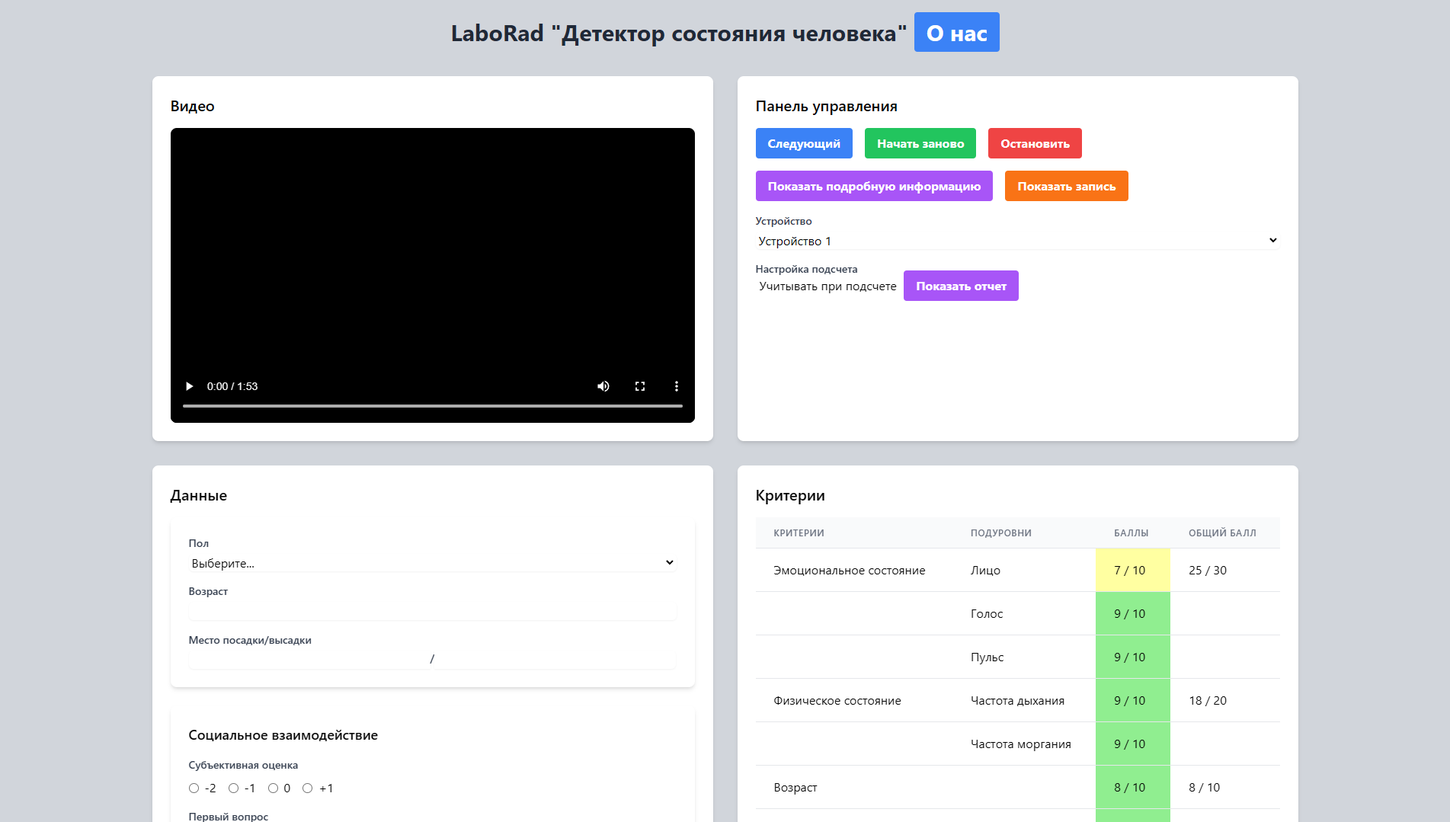
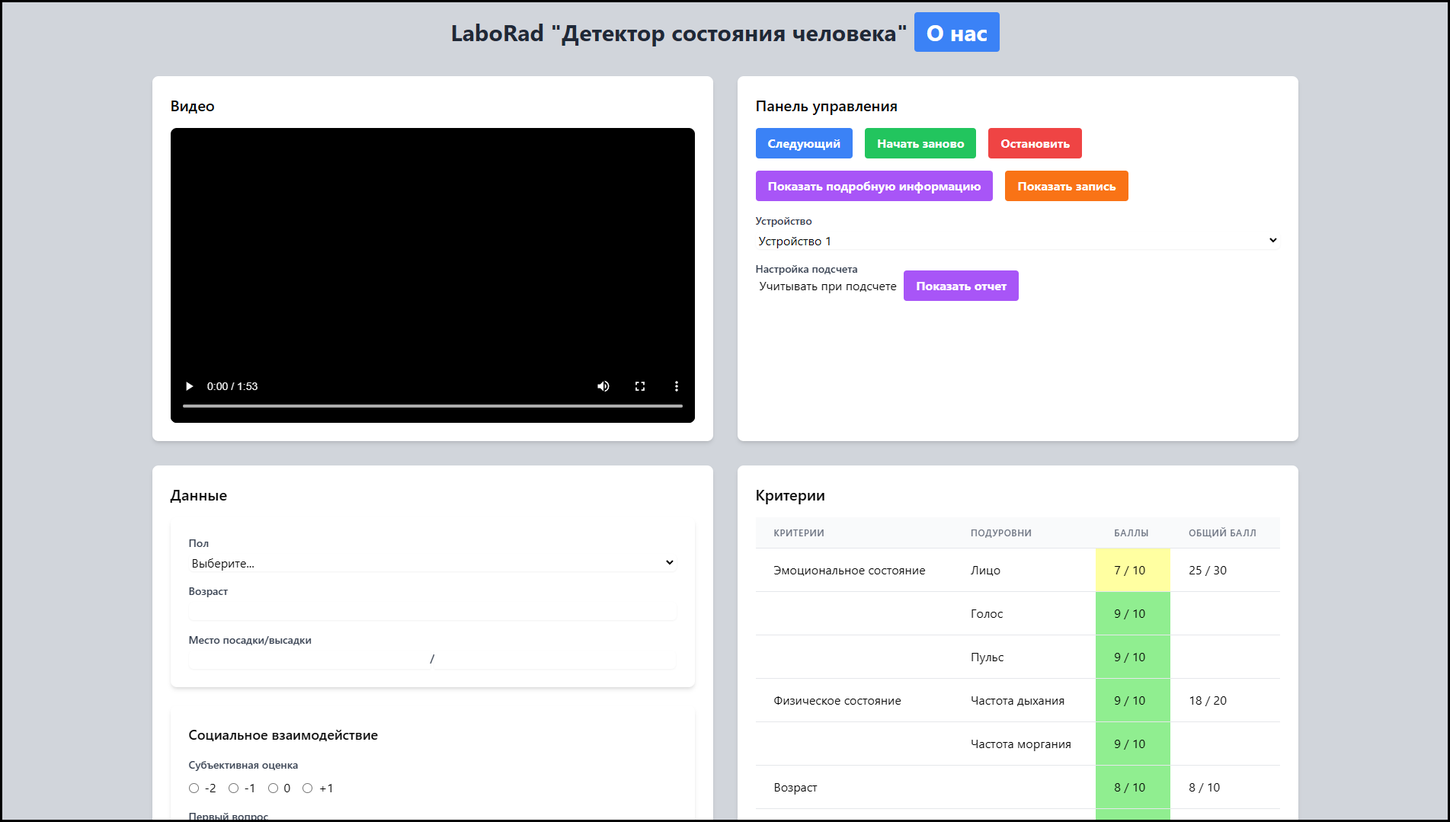
Update docs and landing page
What's new?
 - Add border to screenshots in landing page
 - Add border to screenshots in docs

Changed region(s): [[0.0, 0.0, 1.0, 1.0], [0.0, 0.0, 0.031, 0.0306]]

diff --git a/docs/searchindex.js b/docs/searchindex.js
@@ -1,1 +1,1 @@
-Search.setIndex({"alltitles": {"\u0412\u0438\u0434\u0435\u043e": [[0, "id5"]], "\u0413\u0440\u0430\u0444\u0438\u043a\u0438": [[0, "id9"]], "\u0414\u0430\u043d\u043d\u044b\u0435": [[0, "id7"]], "\u0414\u043e\u043a\u0443\u043c\u0435\u043d\u0442\u0430\u0446\u0438\u044f LaboRad HSD": [[0, null]], "\u0414\u043e\u0441\u0442\u0443\u043f": [[0, "id2"]], "\u0417\u0430\u043f\u0443\u0441\u043a": [[0, "id12"]], "\u0418\u043d\u0442\u0435\u0440\u0444\u0435\u0439\u0441": [[0, "id4"]], "\u041a\u0440\u0438\u0442\u0435\u0440\u0438\u0438": [[0, "id8"]], "\u041d\u0430\u0447\u0430\u043b\u043e \u0440\u0430\u0431\u043e\u0442\u044b": [[0, "id3"]], "\u041f\u0430\u043d\u0435\u043b\u044c \u0443\u043f\u0440\u0430\u0432\u043b\u0435\u043d\u0438\u044f": [[0, "id6"]], "\u041f\u0443\u0431\u043b\u0438\u043a\u0430\u0446\u0438\u044f": [[0, "id15"]], "\u0420\u0430\u0437\u0432\u0435\u0440\u0442\u044b\u0432\u0430\u043d\u0438\u0435 \u043d\u0430 \u0441\u043e\u0431\u0441\u0442\u0432\u0435\u043d\u043d\u043e\u043c \u0441\u0435\u0440\u0432\u0435\u0440\u0435": [[0, "id10"]], "\u0421\u043e\u0434\u0435\u0440\u0436\u0430\u043d\u0438\u0435": [[0, "id1"]], "\u0423\u0441\u0442\u0430\u043d\u043e\u0432\u043a\u0430 \u0431\u0438\u0431\u043b\u0438\u043e\u0442\u0435\u043a": [[0, "id11"]]}, "docnames": ["index"], "envversion": {"sphinx": 64, "sphinx.domains.c": 3, "sphinx.domains.changeset": 1, "sphinx.domains.citation": 1, "sphinx.domains.cpp": 9, "sphinx.domains.index": 1, "sphinx.domains.javascript": 3, "sphinx.domains.math": 2, "sphinx.domains.python": 4, "sphinx.domains.rst": 2, "sphinx.domains.std": 2}, "filenames": ["index.rst"], "indexentries": {}, "objects": {}, "objnames": {}, "objtypes": {}, "terms": {"0": 0, "11": 0, "12": 0, "13a": 0, "2024": 0, "3": 0, "300": [], "9": 0, "_github": [], "_static": [], "add": [], "align": [], "alt": [], "build": 0, "but": [], "camera": 0, "center": [], "com": [], "compilers": 0, "conda": 0, "content": [], "css": 0, "cython": 0, "def": [], "details": [], "documentation": [], "duckdns": 0, "false": [], "figure": [], "for": [], "github": 0, "github_": [], "gue": [], "gui": [], "hello": [], "highlighted": [], "html": 0, "http": 0, "https": [], "iamges": [], "install": 0, "interesting": [], "is": [], "js": 0, "laborad_detector": [], "libstdcxx": 0, "line": [], "lock": 0, "main": [], "ng": 0, "not": [], "one": [], "org": 0, "pip": 0, "png": [], "poetry": 0, "print": [], "publish": 0, "python": 0, "r": 0, "requirements": 0, "restructuredtext": [], "rzd_detector": [], "scale": [], "screenshot_full": [], "see": [], "some_function": [], "syntax": [], "the": [], "this": [], "tphl": 0, "tphlru": [], "tree": [], "txt": 0, "using": [], "webrtcvad": 0, "world": [], "your": [], "\u0430\u043b\u044c\u0442\u0435\u0440\u043d\u0430\u0442\u0438\u0432\u043d": [], "\u0431\u0430\u043b\u043b": 0, "\u0431\u0438\u0431\u043b\u0438\u043e\u0442\u0435\u043a": [], "\u0431\u043b\u043e\u043a": 0, "\u0431\u043e\u043b": 0, "\u0431\u0443\u0434\u0435\u0442": 0, "\u0431\u0443\u0434\u0443\u0442": 0, "\u0431\u044b\u0442": 0, "\u0432": 0, "\u0432\u0430\u0441": 0, "\u0432\u0430\u0448": 0, "\u0432\u0432\u0435\u0434": 0, "\u0432\u0432\u0435\u0441\u0442": 0, "\u0432\u0432\u043e\u0434": 0, "\u0432\u0435\u0431": 0, "\u0432\u0435\u0440\u0441": 0, "\u0432\u0438\u0434": 0, "\u0432\u043a\u043b\u044e\u0447": 0, "\u0432\u043a\u043b\u044e\u0447\u0435\u043d": 0, "\u0432\u043b\u0438\u044f": 0, "\u0432\u043d\u0435\u0448\u043d\u043e\u0441\u0442": 0, "\u0432\u043e\u0437\u043d\u0438\u043a\u0430": 0, "\u0432\u043e\u0437\u0440\u0430\u0441\u0442": 0, "\u0432\u043e\u043f\u0440\u043e\u0441": 0, "\u0432\u043f\u0435\u0447\u0430\u0442\u043b\u0435\u043d": 0, "\u0432\u0441\u0435": 0, "\u0432\u0441\u044e": [], "\u0432\u0442\u043e\u0440": 0, "\u0432\u044b": 0, "\u0432\u044b\u0431\u0435\u0440": 0, "\u0432\u044b\u0431\u043e\u0440": 0, "\u0432\u044b\u0431\u0440\u0430": 0, "\u0432\u044b\u0432\u0435\u0441\u0442": 0, "\u0432\u044b\u0432\u043e\u0434": 0, "\u0432\u044b\u043a\u043b\u044e\u0447\u0435\u043d": 0, "\u0432\u044b\u0441\u0430\u0434\u043a": 0, "\u0433\u0434\u0435": 0, "\u0433\u043b\u0430\u0432": 0, "\u0433\u043e\u0440\u043e\u0434": 0, "\u0433\u0440\u0430\u0444\u0438\u043a": [], "\u0433\u0440\u043e\u043c\u043a\u043e\u0441\u0442": 0, "\u0433\u0440\u0443\u043f\u043f": 0, "\u0434\u0430\u043d": [], "\u0434\u043b\u044f": 0, "\u0434\u043e\u0431\u0440": 0, "\u0434\u043e\u043b\u0436\u043d": 0, "\u0434\u043e\u0441\u0442\u0443\u043f": [], "\u0434\u0440": 0, "\u0434\u0440\u0443\u0433": 0, "\u0434\u044b\u0445\u0430\u043d": 0, "\u0435\u0433": 0, "\u0437\u0430\u0432\u0435\u0440\u0448\u0435\u043d": 0, "\u0437\u0430\u0434\u0430": 0, "\u0437\u0430\u043f": 0, "\u0437\u0430\u043f\u0438\u0441": 0, "\u0438": 0, "\u0438\u0437": 0, "\u0438\u0437\u043e\u0431\u0440\u0430\u0436\u0435\u043d": [], "\u0438\u043d\u0442\u0435\u0440\u0435\u0441": 0, "\u0438\u043d\u0442\u0435\u0440\u0444\u0435\u0439\u0441": [], "\u0438\u043d\u0444\u043e\u0440\u043c\u0430\u0446": 0, "\u0438\u0441\u043f\u043e\u043b\u044c\u0437\u043e\u0432\u0430\u043d": 0, "\u0438\u0441\u043f\u043e\u043b\u044c\u0437\u0443": 0, "\u0438\u0441\u0445\u043e\u0434\u043d": [], "\u0438\u0442\u043e\u0433": 0, "\u0438\u0442\u043e\u0433\u043e\u0432": 0, "\u043a": 0, "\u043a\u0430\u0436\u0434": 0, "\u043a\u0430\u043a": 0, "\u043a\u0430\u043c\u0435\u0440": 0, "\u043a\u043d\u043e\u043f\u043a": 0, "\u043a\u043e\u0434": 0, "\u043a\u043e\u043c\u0430\u043d\u0434": 0, "\u043a\u043e\u0442\u043e\u0440": 0, "\u043b\u0438\u0447\u043d": 0, "\u043b\u044e\u0431": 0, "\u043c\u0430\u043d\u0435\u0440": 0, "\u043c\u0435\u0441\u0442": 0, "\u043c\u043e\u0436\u043d": 0, "\u043c\u043e\u043c\u0435\u043d\u0442": 0, "\u043c\u043e\u0440\u0433\u0430\u043d": 0, "\u043d\u0430\u0434\u0435": 0, "\u043d\u0430\u0436\u0438\u043c\u0430": 0, "\u043d\u0430\u0436\u043c": 0, "\u043d\u0430\u0439\u0434\u0435\u0442": 0, "\u043d\u0430\u043c": 0, "\u043d\u0430\u043f\u0438\u0441\u0430": 0, "\u043d\u0430\u0441\u0442\u0440\u043e": 0, "\u043d\u0430\u0441\u0442\u0440\u043e\u0435\u043a": 0, "\u043d\u0430\u0441\u0442\u0440\u043e\u0439\u043a": 0, "\u043d\u0430\u0445\u043e\u0434": 0, "\u043d\u0430\u0447\u0430": [], "\u043d\u0430\u0448": 0, "\u043d\u0435\u043a\u043e\u0442\u043e\u0440": 0, "\u043d\u0438\u0436": 0, "\u043e": 0, "\u043e\u0431\u0449": 0, "\u043e\u0434\u0435\u0436\u0434": 0, "\u043e\u0441\u043d\u043e\u0432\u043d": 0, "\u043e\u0441\u0442\u0430\u043d\u043e\u0432": 0, "\u043e\u0441\u0442\u0430\u043d\u043e\u0432\u043a": 0, "\u043e\u0442\u0432\u0435\u0442": 0, "\u043e\u0442\u043d\u043e\u0448\u0435\u043d": 0, "\u043e\u0442\u043f\u0440\u0430\u0432\u043b\u0435\u043d": 0, "\u043e\u0442\u0447\u0435\u0442": 0, "\u043e\u0446\u0435\u043d\u043a": 0, "\u043f\u0430\u043f\u043a": 0, "\u043f\u0430\u0441\u0441\u0430\u0436\u0438\u0440": 0, "\u043f\u0435\u0440\u0432": 0, "\u043f\u0435\u0440\u0432\u0438\u0447\u043d": 0, "\u043f\u0435\u0440\u0435\u0445\u043e\u0434": 0, "\u043f\u043e": 0, "\u043f\u043e\u0432\u043b\u0438\u044f": 0, "\u043f\u043e\u0434\u0432\u0435\u0434\u0435\u043d": 0, "\u043f\u043e\u0434\u043f": [], "\u043f\u043e\u0434\u0440\u0430\u0437\u0434\u0435\u043b": 0, "\u043f\u043e\u0434\u0440\u043e\u0431\u043d": 0, "\u043f\u043e\u0434\u0441\u0447\u0435\u0442": 0, "\u043f\u043e\u0434\u0443\u0440\u043e\u0432\u043d": 0, "\u043f\u043e\u0436\u0430\u043b\u043e\u0432\u0430": 0, "\u043f\u043e\u0437\u0432\u043e\u043b\u044f": 0, "\u043f\u043e\u043a\u0430\u0437\u0430": 0, "\u043f\u043e\u043a\u0430\u0437\u0430\u0442\u0435\u043b": 0, "\u043f\u043e\u043b": 0, "\u043f\u043e\u043b\u043d\u043e\u044d\u043a\u0440\u0430": 0, "\u043f\u043e\u043b\u0443\u0447": 0, "\u043f\u043e\u043b\u044c\u0437\u0443": 0, "\u043f\u043e\u0441\u0430\u0434\u043a": 0, "\u043f\u043e\u0441\u043c\u043e\u0442\u0440": [], "\u043f\u043e\u0442\u0440\u0435\u0431": 0, "\u043f\u0440\u0430\u043a\u0442\u0438\u0447\u0435\u0441\u043a": 0, "\u043f\u0440\u0435\u0434\u043e\u0441\u0442\u0430\u0432\u043b\u0435\u043d": 0, "\u043f\u0440\u0435\u0434\u0441\u0442\u0430\u0432\u043b": 0, "\u043f\u0440\u0438": 0, "\u043f\u0440\u0438\u0431\u044b\u0442": 0, "\u043f\u0440\u0438\u043b\u043e\u0436\u0435\u043d": 0, "\u043f\u0440\u0438\u043c\u0435\u0440": [], "\u043f\u0440\u043e\u0432\u0435\u0440": 0, "\u043f\u0440\u043e\u0432\u0435\u0440\u043a": 0, "\u043f\u0440\u043e\u0432\u0435\u0440\u043e\u043a": 0, "\u043f\u0440\u043e\u0432\u0435\u0440\u044c\u0442": 0, "\u043f\u0440\u043e\u0432\u0435\u0440\u044f": 0, "\u043f\u0440\u043e\u0433\u0440\u0430\u043c\u043c": 0, "\u043f\u0440\u043e\u0438\u0441\u0445\u043e\u0434": 0, "\u043f\u0440\u043e\u0448\u043b": 0, "\u043f\u0443\u0431\u043b\u0438\u043a\u0430\u0446": [], "\u043f\u0443\u0431\u043b\u0438\u0447\u043d": 0, "\u043f\u0443\u043b\u044c\u0441": 0, "\u043f\u0443\u043d\u043a\u0442": 0, "\u0440\u0430\u0431\u043e\u0447": 0, "\u0440\u0430\u0437\u0431\u0435\u0440": 0, "\u0440\u0430\u0437\u0434\u0435\u043b": 0, "\u0440\u0430\u0437\u043e\u0431\u0440\u0430": 0, "\u0440\u0435\u0430\u043b\u0438\u0437\u043e\u0432\u0430": 0, "\u0440\u0435\u0436": 0, "\u0440\u0435\u0437\u0443\u043b\u044c\u0442\u0430\u0442": 0, "\u0441": 0, "\u0441\u0430\u043c\u043e\u0441\u0442\u043e\u044f\u0442\u0435\u043b\u044c\u043d": 0, "\u0441\u0432\u043e": 0, "\u0441\u0432\u044f\u0437\u0430": 0, "\u0441\u0435\u0437\u043e\u043d": 0, "\u0441\u043a\u0440\u0438\u043d\u0448\u043e\u0442": 0, "\u0441\u043b\u0435\u0434": 0, "\u0441\u043f\u0435\u0446\u0438\u0430\u043b\u044c\u043d": 0, "\u0441\u043f\u0438\u0441\u043e\u043a": 0, "\u0441\u0440\u0435\u0434\u043d": 0, "\u0441\u0443\u0431\u044a\u0435\u043a\u0442\u0438\u0432\u043d": 0, "\u0441\u044a\u0435\u043c\u043a": 0, "\u0442\u0430\u0431\u043b\u0438\u0446": 0, "\u0442\u0430\u043a": 0, "\u0442\u0435\u043a\u0441\u0442": [], "\u0442\u0443\u0442": 0, "\u0443": 0, "\u0443\u0434\u043e\u0431\u0441\u0442\u0432": 0, "\u0443\u043f\u0440\u0430\u0432\u043b\u044f": 0, "\u0443\u0441\u0442\u0430\u043d\u043e\u0432\u043a": [], "\u0443\u0441\u0442\u0440\u043e\u0439\u0441\u0442\u0432": 0, "\u0443\u0447\u0438\u0442\u044b\u0432\u0430": 0, "\u0444\u0430\u043a\u0442\u043e\u0440": 0, "\u0447\u0430\u0441\u0442\u043e\u0442": 0, "\u0447\u0435\u043b\u043e\u0432\u0435\u043a": 0, "\u0447\u0442\u043e": 0, "\u044d\u043a\u0440\u0430": 0, "\u044d\u0442": 0}, "titles": ["\u0414\u043e\u043a\u0443\u043c\u0435\u043d\u0442\u0430\u0446\u0438\u044f LaboRad HSD"], "titleterms": {"documentation": [], "hello": [], "hsd": 0, "laborad": 0, "world": [], "\u0431\u0438\u0431\u043b\u0438\u043e\u0442\u0435\u043a": 0, "\u0432": [], "\u0432\u0438\u0434\u0435": 0, "\u0433\u0440\u0430\u0444\u0438\u043a": 0, "\u0434\u0430\u043d": 0, "\u0434\u043b\u044f": [], "\u0434\u043e\u0431\u0440": [], "\u0434\u043e\u043a\u0443\u043c\u0435\u043d\u0442\u0430\u0446": 0, "\u0434\u043e\u0441\u0442\u0443\u043f": 0, "\u0437\u0430\u043f\u0443\u0441\u043a": 0, "\u0438\u043d\u0442\u0435\u0440\u0444\u0435\u0439\u0441": 0, "\u043a\u0440\u0438\u0442\u0435\u0440": 0, "\u043d\u0430": 0, "\u043d\u0430\u0447\u0430": 0, "\u043e\u0433": [], "\u043e\u0433\u043b\u0430\u0432\u043b\u0435\u043d": [], "\u043f\u0430\u043d\u0435\u043b": 0, "\u043f\u043e\u0436\u0430\u043b\u043e\u0432\u0430": [], "\u043f\u0440\u043e\u0433\u0440\u0430\u043c\u043c": [], "\u043f\u0443\u0431\u043b\u0438\u043a\u0430\u0446": 0, "\u0440\u0430\u0431\u043e\u0442": 0, "\u0440\u0430\u0437\u0432\u0435\u0440\u0442\u044b\u0432\u0430\u043d": 0, "\u0440\u044b\u0432": [], "\u0441": [], "\u0441\u0435\u0440\u0432\u0435\u0440": 0, "\u0441\u043e\u0431\u0441\u0442\u0432\u0435\u043d": 0, "\u0441\u043e\u0434\u0435\u0440\u0436\u0430\u043d": 0, "\u0443\u043f\u0440\u0430\u0432\u043b\u0435\u043d": 0, "\u0443\u0441\u0442\u0430\u043d\u043e\u0432\u043a": 0}})
+Search.setIndex({"alltitles": {"\u0412\u0438\u0434\u0435\u043e": [[0, "id5"]], "\u0413\u0440\u0430\u0444\u0438\u043a\u0438": [[0, "id9"]], "\u0414\u0430\u043d\u043d\u044b\u0435": [[0, "id7"]], "\u0414\u043e\u043a\u0443\u043c\u0435\u043d\u0442\u0430\u0446\u0438\u044f LaboRad HSD": [[0, null]], "\u0414\u043e\u0441\u0442\u0443\u043f": [[0, "id2"]], "\u0417\u0430\u043f\u0443\u0441\u043a": [[0, "id12"]], "\u0418\u043d\u0442\u0435\u0440\u0444\u0435\u0439\u0441": [[0, "id4"]], "\u041a\u0440\u0438\u0442\u0435\u0440\u0438\u0438": [[0, "id8"]], "\u041d\u0430\u0447\u0430\u043b\u043e \u0440\u0430\u0431\u043e\u0442\u044b": [[0, "id3"]], "\u041f\u0430\u043d\u0435\u043b\u044c \u0443\u043f\u0440\u0430\u0432\u043b\u0435\u043d\u0438\u044f": [[0, "id6"]], "\u041f\u0443\u0431\u043b\u0438\u043a\u0430\u0446\u0438\u044f": [[0, "id15"]], "\u0420\u0430\u0437\u0432\u0435\u0440\u0442\u044b\u0432\u0430\u043d\u0438\u0435 \u043d\u0430 \u0441\u043e\u0431\u0441\u0442\u0432\u0435\u043d\u043d\u043e\u043c \u0441\u0435\u0440\u0432\u0435\u0440\u0435": [[0, "id10"]], "\u0421\u043e\u0434\u0435\u0440\u0436\u0430\u043d\u0438\u0435": [[0, "id1"]], "\u0423\u0441\u0442\u0430\u043d\u043e\u0432\u043a\u0430 \u0431\u0438\u0431\u043b\u0438\u043e\u0442\u0435\u043a": [[0, "id11"]]}, "docnames": ["index"], "envversion": {"sphinx": 64, "sphinx.domains.c": 3, "sphinx.domains.changeset": 1, "sphinx.domains.citation": 1, "sphinx.domains.cpp": 9, "sphinx.domains.index": 1, "sphinx.domains.javascript": 3, "sphinx.domains.math": 2, "sphinx.domains.python": 4, "sphinx.domains.rst": 2, "sphinx.domains.std": 2}, "filenames": ["index.rst"], "indexentries": {}, "objects": {}, "objnames": {}, "objtypes": {}, "terms": {"0": 0, "11": 0, "12": 0, "13a": 0, "2024": 0, "3": 0, "300": [], "9": 0, "_github": [], "_static": [], "add": [], "align": [], "alt": [], "build": 0, "but": [], "camera": 0, "center": [], "com": [], "compilers": 0, "conda": 0, "content": [], "css": 0, "cython": 0, "def": [], "details": [], "documentation": [], "duckdns": 0, "false": [], "figure": [], "for": [], "github": 0, "github_": [], "gue": [], "gui": [], "hello": [], "highlighted": [], "html": 0, "http": 0, "https": [], "iamges": [], "install": 0, "interesting": [], "is": [], "js": 0, "laborad_detector": [], "libstdcxx": 0, "line": [], "lock": 0, "main": [], "ng": 0, "not": [], "one": [], "org": 0, "pip": 0, "png": [], "poetry": 0, "print": [], "publish": 0, "python": 0, "r": 0, "requirements": 0, "restructuredtext": [], "rzd_detector": [], "scale": [], "screenshot_full": [], "see": [], "some_function": [], "syntax": [], "the": [], "this": [], "tphl": 0, "tphlru": [], "tree": [], "txt": 0, "using": [], "webrtcvad": 0, "world": [], "your": [], "\u0430\u043b\u044c\u0442\u0435\u0440\u043d\u0430\u0442\u0438\u0432\u043d": [], "\u0431\u0430\u043b\u043b": 0, "\u0431\u0438\u0431\u043b\u0438\u043e\u0442\u0435\u043a": [], "\u0431\u043b\u043e\u043a": 0, "\u0431\u043e\u043b": 0, "\u0431\u0443\u0434\u0435\u0442": 0, "\u0431\u0443\u0434\u0443\u0442": 0, "\u0431\u044b\u0442": 0, "\u0432": 0, "\u0432\u0430\u0441": 0, "\u0432\u0430\u0448": 0, "\u0432\u0432\u0435\u0434": 0, "\u0432\u0432\u0435\u0441\u0442": 0, "\u0432\u0432\u043e\u0434": 0, "\u0432\u0435\u0431": 0, "\u0432\u0435\u0440\u0441": 0, "\u0432\u0438\u0434": 0, "\u0432\u043a\u043b\u044e\u0447": 0, "\u0432\u043a\u043b\u044e\u0447\u0435\u043d": 0, "\u0432\u043b\u0438\u044f": 0, "\u0432\u043d\u0435\u0448\u043d\u043e\u0441\u0442": 0, "\u0432\u043e\u0437\u043d\u0438\u043a\u0430": 0, "\u0432\u043e\u0437\u0440\u0430\u0441\u0442": 0, "\u0432\u043e\u043f\u0440\u043e\u0441": 0, "\u0432\u043f\u0435\u0447\u0430\u0442\u043b\u0435\u043d": 0, "\u0432\u0441\u0435": 0, "\u0432\u0441\u044e": [], "\u0432\u0442\u043e\u0440": 0, "\u0432\u044b": 0, "\u0432\u044b\u0431\u0435\u0440": 0, "\u0432\u044b\u0431\u043e\u0440": 0, "\u0432\u044b\u0431\u0440\u0430": 0, "\u0432\u044b\u0432\u0435\u0441\u0442": 0, "\u0432\u044b\u0432\u043e\u0434": 0, "\u0432\u044b\u043a\u043b\u044e\u0447\u0435\u043d": 0, "\u0432\u044b\u0441\u0430\u0434\u043a": 0, "\u0433\u0434\u0435": [], "\u0433\u043b\u0430\u0432": 0, "\u0433\u043e\u0440\u043e\u0434": 0, "\u0433\u0440\u0430\u0444\u0438\u043a": [], "\u0433\u0440\u043e\u043c\u043a\u043e\u0441\u0442": 0, "\u0433\u0440\u0443\u043f\u043f": 0, "\u0434\u0430\u043d": [], "\u0434\u043b\u044f": 0, "\u0434\u043e\u0431\u0440": 0, "\u0434\u043e\u043b\u0436\u043d": 0, "\u0434\u043e\u0441\u0442\u0443\u043f": [], "\u0434\u0440": 0, "\u0434\u0440\u0443\u0433": 0, "\u0434\u044b\u0445\u0430\u043d": 0, "\u0435\u0433": 0, "\u0437\u0430\u0432\u0435\u0440\u0448\u0435\u043d": 0, "\u0437\u0430\u0434\u0430": 0, "\u0437\u0430\u043f": 0, "\u0437\u0430\u043f\u0438\u0441": 0, "\u0438": 0, "\u0438\u0437": 0, "\u0438\u0437\u043e\u0431\u0440\u0430\u0436\u0435\u043d": [], "\u0438\u043d\u0442\u0435\u0440\u0435\u0441": 0, "\u0438\u043d\u0442\u0435\u0440\u0444\u0435\u0439\u0441": [], "\u0438\u043d\u0444\u043e\u0440\u043c\u0430\u0446": 0, "\u0438\u0441\u043f\u043e\u043b\u044c\u0437\u043e\u0432\u0430\u043d": 0, "\u0438\u0441\u043f\u043e\u043b\u044c\u0437\u0443": 0, "\u0438\u0441\u0445\u043e\u0434\u043d": [], "\u0438\u0442\u043e\u0433": 0, "\u0438\u0442\u043e\u0433\u043e\u0432": 0, "\u043a": 0, "\u043a\u0430\u0436\u0434": 0, "\u043a\u0430\u043a": 0, "\u043a\u0430\u043c\u0435\u0440": 0, "\u043a\u043d\u043e\u043f\u043a": 0, "\u043a\u043e\u0434": 0, "\u043a\u043e\u043c\u0430\u043d\u0434": 0, "\u043a\u043e\u0442\u043e\u0440": 0, "\u043b\u0438\u0447\u043d": 0, "\u043b\u044e\u0431": 0, "\u043c\u0430\u043d\u0435\u0440": 0, "\u043c\u0435\u0441\u0442": 0, "\u043c\u043e\u0436\u043d": 0, "\u043c\u043e\u043c\u0435\u043d\u0442": 0, "\u043c\u043e\u0440\u0433\u0430\u043d": 0, "\u043d\u0430\u0434\u0435": 0, "\u043d\u0430\u0436\u0438\u043c\u0430": 0, "\u043d\u0430\u0436\u043c": 0, "\u043d\u0430\u0439\u0434\u0435\u0442": 0, "\u043d\u0430\u043c": 0, "\u043d\u0430\u043f\u0438\u0441\u0430": 0, "\u043d\u0430\u0441\u0442\u0440\u043e": 0, "\u043d\u0430\u0441\u0442\u0440\u043e\u0435\u043a": 0, "\u043d\u0430\u0441\u0442\u0440\u043e\u0439\u043a": 0, "\u043d\u0430\u0445\u043e\u0434": 0, "\u043d\u0430\u0447\u0430": [], "\u043d\u0430\u0448": 0, "\u043d\u0435\u043a\u043e\u0442\u043e\u0440": 0, "\u043d\u0438\u0436": 0, "\u043e": 0, "\u043e\u0431\u0449": 0, "\u043e\u0434\u0435\u0436\u0434": 0, "\u043e\u0441\u043d\u043e\u0432\u043d": 0, "\u043e\u0441\u0442\u0430\u043d\u043e\u0432": 0, "\u043e\u0441\u0442\u0430\u043d\u043e\u0432\u043a": 0, "\u043e\u0442\u0432\u0435\u0442": 0, "\u043e\u0442\u043d\u043e\u0448\u0435\u043d": 0, "\u043e\u0442\u043f\u0440\u0430\u0432\u043b\u0435\u043d": 0, "\u043e\u0442\u0447\u0435\u0442": 0, "\u043e\u0446\u0435\u043d\u043a": 0, "\u043f\u0430\u043f\u043a": 0, "\u043f\u0430\u0441\u0441\u0430\u0436\u0438\u0440": 0, "\u043f\u0435\u0440\u0432": 0, "\u043f\u0435\u0440\u0432\u0438\u0447\u043d": 0, "\u043f\u0435\u0440\u0435\u0445\u043e\u0434": 0, "\u043f\u043e": 0, "\u043f\u043e\u0432\u043b\u0438\u044f": 0, "\u043f\u043e\u0434\u0432\u0435\u0434\u0435\u043d": 0, "\u043f\u043e\u0434\u043f": [], "\u043f\u043e\u0434\u0440\u0430\u0437\u0434\u0435\u043b": 0, "\u043f\u043e\u0434\u0440\u043e\u0431\u043d": 0, "\u043f\u043e\u0434\u0441\u0447\u0435\u0442": 0, "\u043f\u043e\u0434\u0443\u0440\u043e\u0432\u043d": 0, "\u043f\u043e\u0436\u0430\u043b\u043e\u0432\u0430": 0, "\u043f\u043e\u0437\u0432\u043e\u043b\u044f": 0, "\u043f\u043e\u043a\u0430\u0437\u0430": 0, "\u043f\u043e\u043a\u0430\u0437\u0430\u0442\u0435\u043b": 0, "\u043f\u043e\u043b": 0, "\u043f\u043e\u043b\u043d\u043e\u044d\u043a\u0440\u0430": 0, "\u043f\u043e\u043b\u0443\u0447": 0, "\u043f\u043e\u043b\u044c\u0437\u0443": 0, "\u043f\u043e\u0441\u0430\u0434\u043a": 0, "\u043f\u043e\u0441\u043c\u043e\u0442\u0440": [], "\u043f\u043e\u0442\u0440\u0435\u0431": 0, "\u043f\u0440\u0430\u043a\u0442\u0438\u0447\u0435\u0441\u043a": 0, "\u043f\u0440\u0435\u0434\u043e\u0441\u0442\u0430\u0432\u043b\u0435\u043d": 0, "\u043f\u0440\u0435\u0434\u0441\u0442\u0430\u0432\u043b": 0, "\u043f\u0440\u0438": 0, "\u043f\u0440\u0438\u0431\u044b\u0442": 0, "\u043f\u0440\u0438\u043b\u043e\u0436\u0435\u043d": 0, "\u043f\u0440\u0438\u043c\u0435\u0440": [], "\u043f\u0440\u043e\u0432\u0435\u0440": 0, "\u043f\u0440\u043e\u0432\u0435\u0440\u043a": 0, "\u043f\u0440\u043e\u0432\u0435\u0440\u043e\u043a": 0, "\u043f\u0440\u043e\u0432\u0435\u0440\u044c\u0442": 0, "\u043f\u0440\u043e\u0432\u0435\u0440\u044f": 0, "\u043f\u0440\u043e\u0433\u0440\u0430\u043c\u043c": 0, "\u043f\u0440\u043e\u0438\u0441\u0445\u043e\u0434": 0, "\u043f\u0440\u043e\u0448\u043b": 0, "\u043f\u0443\u0431\u043b\u0438\u043a\u0430\u0446": [], "\u043f\u0443\u0431\u043b\u0438\u0447\u043d": 0, "\u043f\u0443\u043b\u044c\u0441": 0, "\u043f\u0443\u043d\u043a\u0442": 0, "\u0440\u0430\u0431\u043e\u0447": 0, "\u0440\u0430\u0437\u0431\u0435\u0440": 0, "\u0440\u0430\u0437\u0434\u0435\u043b": 0, "\u0440\u0430\u0437\u043e\u0431\u0440\u0430": 0, "\u0440\u0435\u0430\u043b\u0438\u0437\u043e\u0432\u0430": 0, "\u0440\u0435\u0436": 0, "\u0440\u0435\u0437\u0443\u043b\u044c\u0442\u0430\u0442": 0, "\u0441": 0, "\u0441\u0430\u043c\u043e\u0441\u0442\u043e\u044f\u0442\u0435\u043b\u044c\u043d": 0, "\u0441\u0432\u043e": 0, "\u0441\u0432\u044f\u0437\u0430": 0, "\u0441\u0435\u0437\u043e\u043d": 0, "\u0441\u043a\u0440\u0438\u043d\u0448\u043e\u0442": 0, "\u0441\u043b\u0435\u0434": 0, "\u0441\u043f\u0435\u0446\u0438\u0430\u043b\u044c\u043d": 0, "\u0441\u043f\u0438\u0441\u043e\u043a": 0, "\u0441\u0440\u0435\u0434\u043d": 0, "\u0441\u0443\u0431\u044a\u0435\u043a\u0442\u0438\u0432\u043d": 0, "\u0441\u044a\u0435\u043c\u043a": 0, "\u0442\u0430\u0431\u043b\u0438\u0446": 0, "\u0442\u0430\u043a": 0, "\u0442\u0435\u043a\u0441\u0442": [], "\u0442\u0443\u0442": 0, "\u0443": 0, "\u0443\u0434\u043e\u0431\u0441\u0442\u0432": 0, "\u0443\u043f\u0440\u0430\u0432\u043b\u044f": 0, "\u0443\u0441\u0442\u0430\u043d\u043e\u0432\u043a": [], "\u0443\u0441\u0442\u0440\u043e\u0439\u0441\u0442\u0432": 0, "\u0443\u0447\u0438\u0442\u044b\u0432\u0430": 0, "\u0444\u0430\u043a\u0442\u043e\u0440": 0, "\u0447\u0430\u0441\u0442\u043e\u0442": 0, "\u0447\u0435\u043b\u043e\u0432\u0435\u043a": 0, "\u0447\u0442\u043e": 0, "\u044d\u043a\u0440\u0430": 0, "\u044d\u0442": 0}, "titles": ["\u0414\u043e\u043a\u0443\u043c\u0435\u043d\u0442\u0430\u0446\u0438\u044f LaboRad HSD"], "titleterms": {"documentation": [], "hello": [], "hsd": 0, "laborad": 0, "world": [], "\u0431\u0438\u0431\u043b\u0438\u043e\u0442\u0435\u043a": 0, "\u0432": [], "\u0432\u0438\u0434\u0435": 0, "\u0433\u0440\u0430\u0444\u0438\u043a": 0, "\u0434\u0430\u043d": 0, "\u0434\u043b\u044f": [], "\u0434\u043e\u0431\u0440": [], "\u0434\u043e\u043a\u0443\u043c\u0435\u043d\u0442\u0430\u0446": 0, "\u0434\u043e\u0441\u0442\u0443\u043f": 0, "\u0437\u0430\u043f\u0443\u0441\u043a": 0, "\u0438\u043d\u0442\u0435\u0440\u0444\u0435\u0439\u0441": 0, "\u043a\u0440\u0438\u0442\u0435\u0440": 0, "\u043d\u0430": 0, "\u043d\u0430\u0447\u0430": 0, "\u043e\u0433": [], "\u043e\u0433\u043b\u0430\u0432\u043b\u0435\u043d": [], "\u043f\u0430\u043d\u0435\u043b": 0, "\u043f\u043e\u0436\u0430\u043b\u043e\u0432\u0430": [], "\u043f\u0440\u043e\u0433\u0440\u0430\u043c\u043c": [], "\u043f\u0443\u0431\u043b\u0438\u043a\u0430\u0446": 0, "\u0440\u0430\u0431\u043e\u0442": 0, "\u0440\u0430\u0437\u0432\u0435\u0440\u0442\u044b\u0432\u0430\u043d": 0, "\u0440\u044b\u0432": [], "\u0441": [], "\u0441\u0435\u0440\u0432\u0435\u0440": 0, "\u0441\u043e\u0431\u0441\u0442\u0432\u0435\u043d": 0, "\u0441\u043e\u0434\u0435\u0440\u0436\u0430\u043d": 0, "\u0443\u043f\u0440\u0430\u0432\u043b\u0435\u043d": 0, "\u0443\u0441\u0442\u0430\u043d\u043e\u0432\u043a": 0}})

diff --git a/gui/main_page/index.html b/gui/main_page/index.html
@@ -404,21 +404,21 @@
                     </h3>
                 </div>
                 <div class="img-gallery owl-carousel owl-theme">
-                    <img alt="image" src="images/screenshots/screenshotMobile1.png">
-                        <img alt="image" src="images/screenshots/screenshotMobile2.png">
-                            <img alt="image" src="images/screenshots/screenshotMobile3.png">
-                                <img alt="image" src="images/screenshots/screenshotMobile4.png">
+                    <img alt="image" style="border: 2px solid black" src="images/screenshots/screenshotMobile1.png">
+                        <img alt="image" style="border: 2px solid black" src="images/screenshots/screenshotMobile2.png">
+                            <img alt="image" style="border: 2px solid black" src="images/screenshots/screenshotMobile3.png">
+                                <img alt="image" style="border: 2px solid black" src="images/screenshots/screenshotMobile4.png">
                                 </img>
                             </img>
                         </img>
                     </img>
                 </div>
                 <div bg="orange" class="bg-orange rounded-lg shadow-md p-6" id="s55" width="1100%">
-                    <img alt="image" class="mt-4" src="images/screenshots/screenshot_full.png" width="100%"/>
-                    <img alt="image" class="mt-4" src="images/screenshots/screenshot_full3.jpg" width="100%"/>
-                    <img alt="image" class="mt-4" src="images/screenshots/screenshot_full2.jpg" width="100%"/>
-                    <img alt="image" class="mt-4" src="images/screenshots/screenshotMobile5.jpg" width="100%"/>
-                    <img alt="image" class="mt-4" src="images/screenshots/screenshotMobile6.jpg" width="100%"/>
+                    <img alt="image" style="border: 2px solid black" class="mt-4" src="images/screenshots/screenshot_full.png" width="100%"/>
+                    <img alt="image" style="border: 2px solid black" class="mt-4" src="images/screenshots/screenshot_full3.jpg" width="100%"/>
+                    <img alt="image" style="border: 2px solid black" class="mt-4" src="images/screenshots/screenshot_full2.jpg" width="100%"/>
+                    <img alt="image" style="border: 2px solid black" class="mt-4" src="images/screenshots/screenshotMobile5.jpg" width="100%"/>
+                    <img alt="image" style="border: 2px solid black" class="mt-4" src="images/screenshots/screenshotMobile6.jpg" width="100%"/>
                 </div>
             </div>
         </div>

diff --git a/docs/index.html b/docs/index.html
@@ -168,7 +168,7 @@
 </section>
 <section id="id8">
 <h3><a class="toc-backref" href="#id22" role="doc-backlink">Критерии</a><a class="headerlink" href="#id8" title="Ссылка на этот заголовок"></a></h3>
-<p>В данный блок выводятся данные все данные о проверяемом в виде таблицы, где</p>
+<p>В данный блок выводятся данные все данные о проверяемом в виде таблицы.</p>
 <p><strong>Критерии</strong> - группы для подуровней</p>
 <p><strong>Подуровни</strong> - критерии, по которым происходит оценка</p>
 <p><strong>Баллы</strong> - оценка проверяемого по этому критерию</p>
